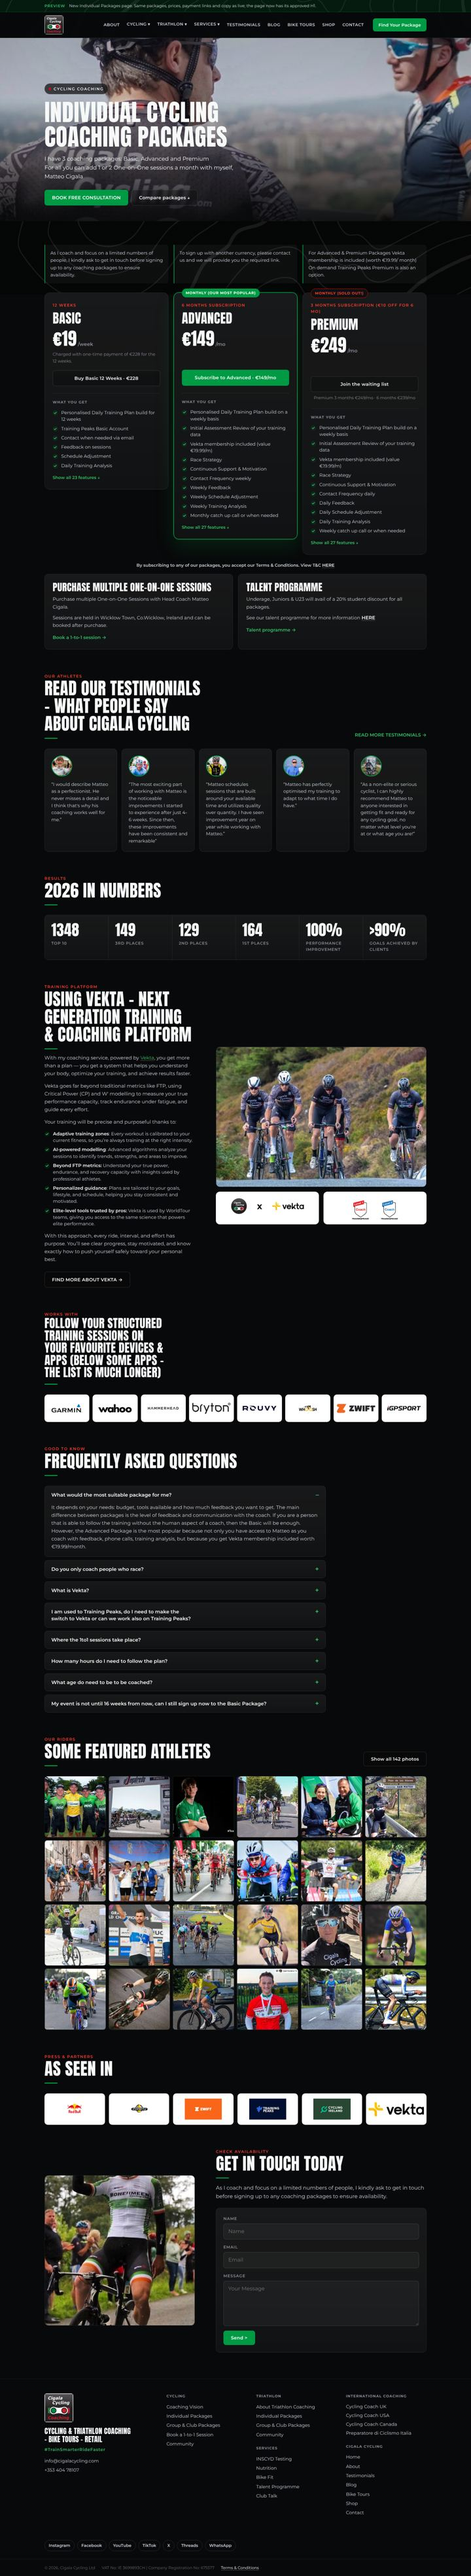
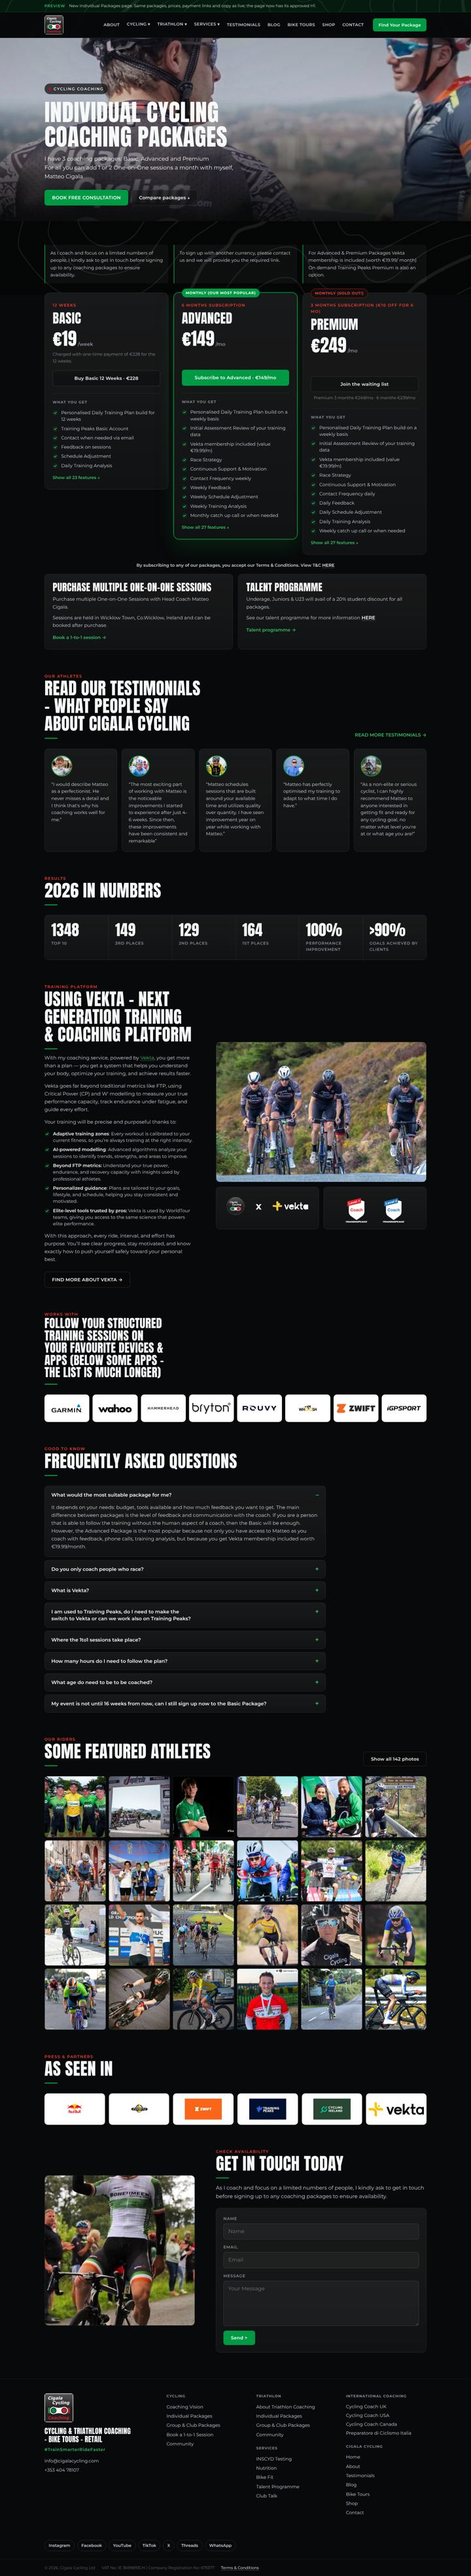
Individual Packages: Cigala x Vekta and TrainingPeaks badges on dark panels (tools/darklogo.py)
Claude-Session: https://claude.ai/code/session_01APBtfV87hW2MRrnroMbwU8

Changed region(s): [[0.4583, 0.4062, 0.9167, 0.5]]

diff --git a/coachingpages/individual-packages.html b/coachingpages/individual-packages.html
@@ -355,8 +355,8 @@ footer .in.social { display: flex; flex-wrap: wrap; gap: 8px; padding-bottom: 24
 .vk-side { display: grid; gap: 14px; }
 .vk-side .photo { aspect-ratio: 3 / 2; }
 .vk-logos { display: grid; grid-template-columns: 1fr 1fr; gap: 14px; }
-.vk-logos > * { display: grid; place-items: center; background: #fff; border-radius: var(--r); padding: 14px; min-height: 96px; }
-.vk-logos img { max-height: 72px; width: auto; }
+.vk-logos > * { display: grid; place-items: center; background: var(--panel-grad), var(--panel); border: 1px solid var(--border); border-radius: var(--r); padding: 18px; min-height: 130px; }
+.vk-logos img { max-height: 92px; width: auto; max-width: 100%; }
 .h-long { font-size: clamp(24px, 3vw, 36px); max-width: 32ch; }
 .apps { display: grid; grid-template-columns: repeat(8, minmax(0, 1fr)); gap: 10px; margin: 0; }
 .apps a { background: #fff; border-radius: 10px; height: 84px; display: grid; place-items: center; padding: 10px; }
@@ -524,8 +524,8 @@ footer .in.social { display: flex; flex-wrap: wrap; gap: 8px; padding-bottom: 24
     <div class="vk-side">
       <div class="photo"><img src="img/team-training.webp" alt="Cigala Cycling team training | Cigala Cycling Coaching" loading="lazy" width="1600" height="1082"></div>
       <div class="vk-logos">
-        <a href="https://joinvekta.com/partnerships" target="_blank" rel="noopener"><img src="img/cigala-x-vekta.webp" alt="Cigala Cycling x Vekta logo | Cigala Cycling Coaching" loading="lazy"></a>
-        <span><img src="img/trainingpeaks-levels.webp" alt="TrainingPeaks Level 1 &amp; 2 logos | Cigala Cycling Coaching" loading="lazy"></span>
+        <a href="https://joinvekta.com/partnerships" target="_blank" rel="noopener"><img src="img/cigala-x-vekta-dark.webp" alt="Cigala Cycling x Vekta logo | Cigala Cycling Coaching" loading="lazy"></a>
+        <span><img src="img/trainingpeaks-levels-dark.webp" alt="TrainingPeaks Level 1 &amp; 2 logos | Cigala Cycling Coaching" loading="lazy"></span>
       </div>
     </div>
   </div>

diff --git a/tools/darklogo.py b/tools/darklogo.py
@@ -1,0 +1,35 @@
+"""Make a logo with a baked-in white background usable on the dark site.
+Only the white background connected to the image edge becomes transparent (inner whites stay),
+and near-black text/lines become white, except inside keep-boxes (e.g. a dark round logo).
+  python3 -I tools/darklogo.py SRC DST [x0,y0,x1,y1 ...]
+"""
+import sys
+from collections import deque
+from PIL import Image
+
+def darkify(src, dst, keep=()):
+    im = Image.open(src).convert('RGB'); W, H = im.size; px = im.load()
+    white = lambda p: min(p) >= 225 and max(p) - min(p) < 30
+    bg = [[False] * W for _ in range(H)]
+    q = deque((x, y) for x in range(W) for y in (0, H - 1)) + deque((x, y) for y in range(H) for x in (0, W - 1))
+    while q:
+        x, y = q.popleft()
+        if 0 <= x < W and 0 <= y < H and not bg[y][x] and white(px[x, y]):
+            bg[y][x] = True; q.extend(((x + 1, y), (x - 1, y), (x, y + 1), (x, y - 1)))
+    out = Image.new('RGBA', im.size); op = out.load()
+    inkeep = lambda x, y: any(a <= x <= c and b <= y <= d for a, b, c, d in keep)
+    for y in range(H):
+        for x in range(W):
+            r, g, b = px[x, y]; lum = (r + g + b) / 3; sat = max(r, g, b) - min(r, g, b)
+            if bg[y][x]: op[x, y] = (255, 255, 255, 0)
+            elif sat < 40 and lum < 140 and not inkeep(x, y):
+                # dark ink -> white; anti-aliased edge pixels next to the background fade out
+                op[x, y] = (255, 255, 255, 255)
+            elif sat < 40 and lum >= 140 and not inkeep(x, y) and any(
+                    0 <= x + dx < W and 0 <= y + dy < H and bg[y + dy][x + dx] for dx, dy in ((1, 0), (-1, 0), (0, 1), (0, -1))):
+                op[x, y] = (255, 255, 255, int(255 - lum))  # grey edge between ink and background
+            else: op[x, y] = (r, g, b, 255)
+    out.save(dst, 'WEBP', quality=90, method=6)
+
+if __name__ == '__main__':
+    darkify(sys.argv[1], sys.argv[2], [tuple(map(int, k.split(','))) for k in sys.argv[3:]])

diff --git a/tools/build_coaching_packages.py b/tools/build_coaching_packages.py
@@ -123,8 +123,11 @@ logos = ''.join(f'<span><img src="{img(k, n)}" alt="{E(live_alt(k))}" loading="l
 HERO = img('imgi_41_Tuz_W_Vx', 'packages-hero')
 TEAM = img('imgi_21_ZtFBdo0p', 'team-training')  # clean version of the live banner photo (imgi_43, Matteo didn't want the text banner)
 RIDER = img('imgi_42_FoPYDRwS', 'rider')
-VKLOGO = img('SDFASDFASDF.png', 'cigala-x-vekta')
-TPLOGO = img('PfNJBaCPkS_eSn5J', 'trainingpeaks-levels')
+img('SDFASDFASDF.png', 'cigala-x-vekta'); img('PfNJBaCPkS_eSn5J', 'trainingpeaks-levels')
+# dark-background versions (tools/darklogo.py): white background removed, black text turned white
+for n in ('cigala-x-vekta', 'trainingpeaks-levels'):
+    shutil.copy(ROOT + f'coaching/webp/darklogo-{n}.webp', OUT + f'img/{n}-dark.webp')
+VKLOGO, TPLOGO = 'img/cigala-x-vekta-dark.webp', 'img/trainingpeaks-levels-dark.webp'
 
 intro = [l[3:] for l in TXT[TXT.index('TXT: [', 0):TXT.index('TXT: 12 Weeks')] if l.startswith('P: ')]
 MAIN = f'''<div class="hero hero-sm">
@@ -307,8 +310,8 @@ PCSS = '''<style>
 .vk-side { display: grid; gap: 14px; }
 .vk-side .photo { aspect-ratio: 3 / 2; }
 .vk-logos { display: grid; grid-template-columns: 1fr 1fr; gap: 14px; }
-.vk-logos > * { display: grid; place-items: center; background: #fff; border-radius: var(--r); padding: 14px; min-height: 96px; }
-.vk-logos img { max-height: 72px; width: auto; }
+.vk-logos > * { display: grid; place-items: center; background: var(--panel-grad), var(--panel); border: 1px solid var(--border); border-radius: var(--r); padding: 18px; min-height: 130px; }
+.vk-logos img { max-height: 92px; width: auto; max-width: 100%; }
 .h-long { font-size: clamp(24px, 3vw, 36px); max-width: 32ch; }
 .apps { display: grid; grid-template-columns: repeat(8, minmax(0, 1fr)); gap: 10px; margin: 0; }
 .apps a { background: #fff; border-radius: 10px; height: 84px; display: grid; place-items: center; padding: 10px; }
